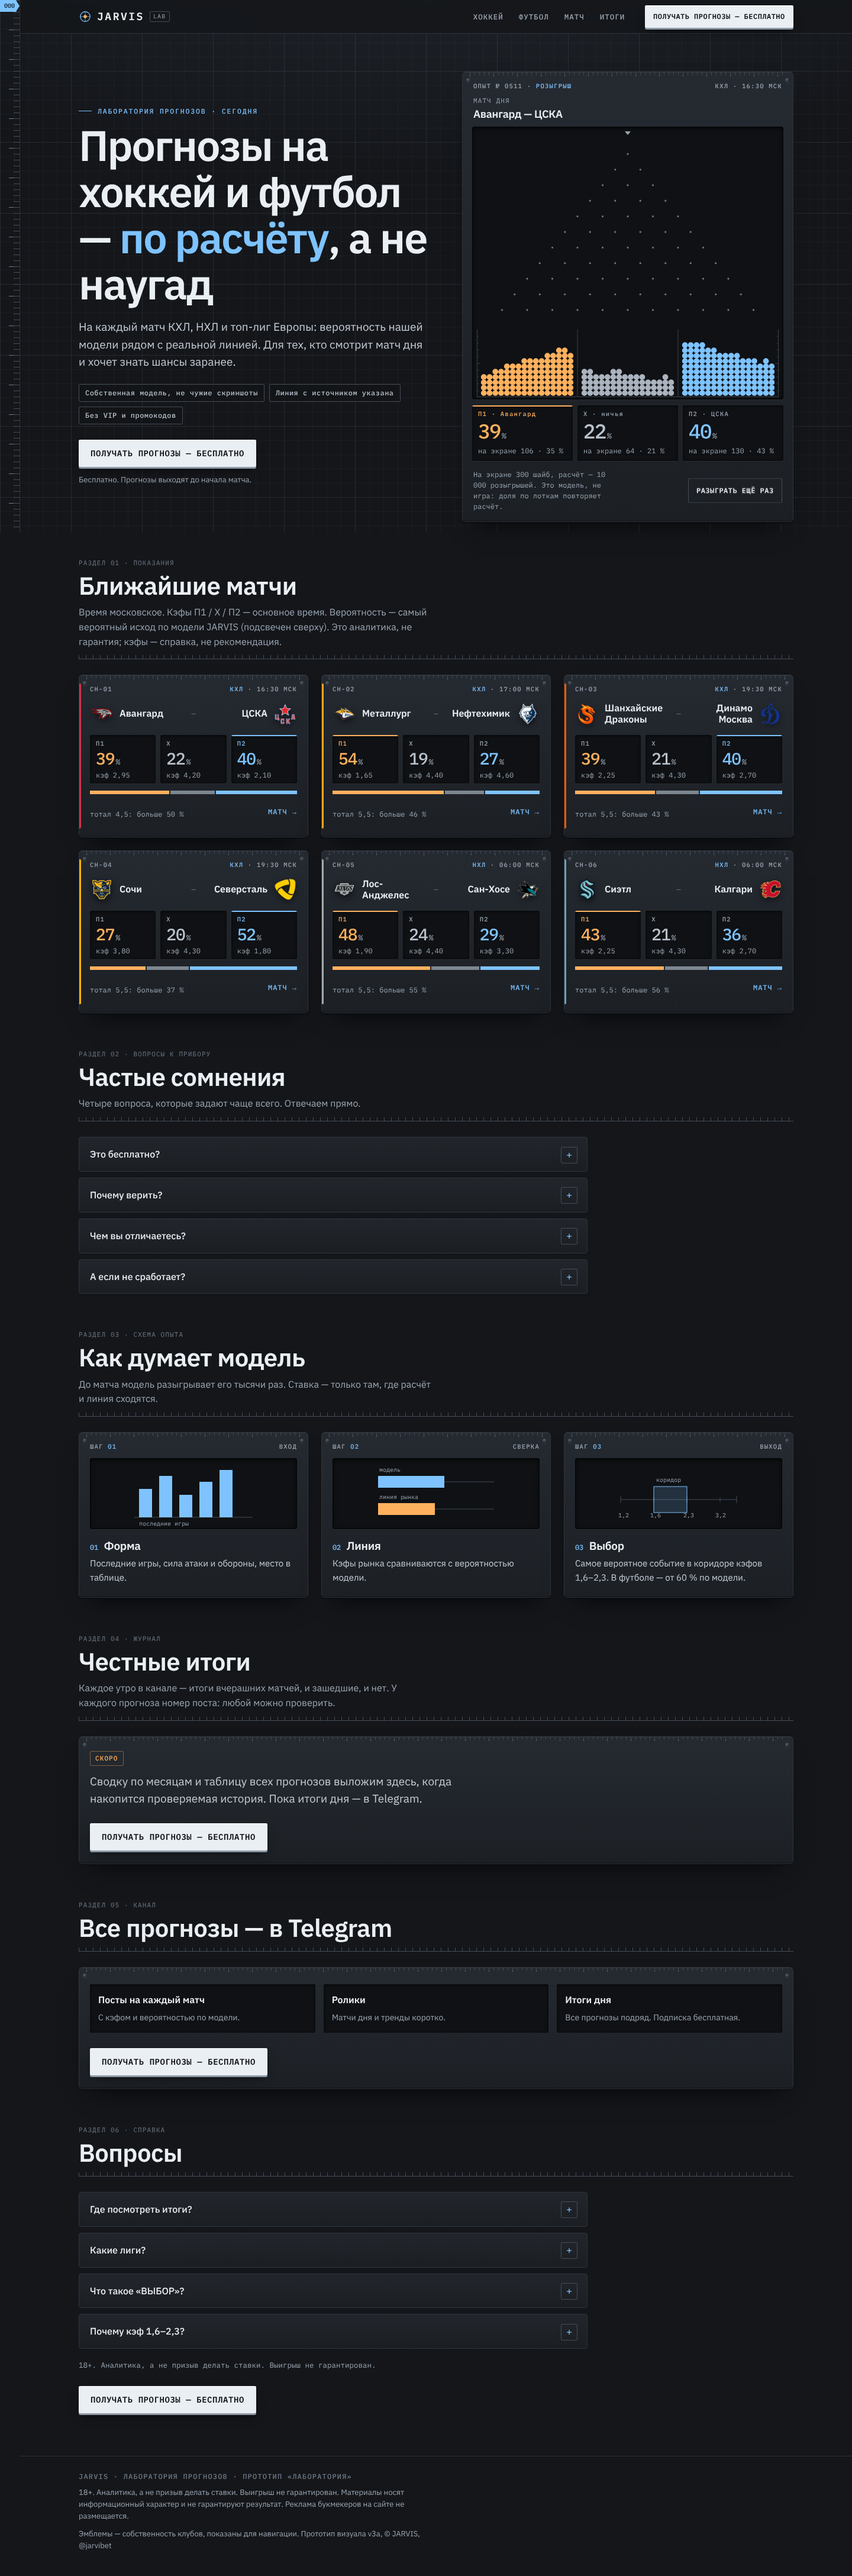
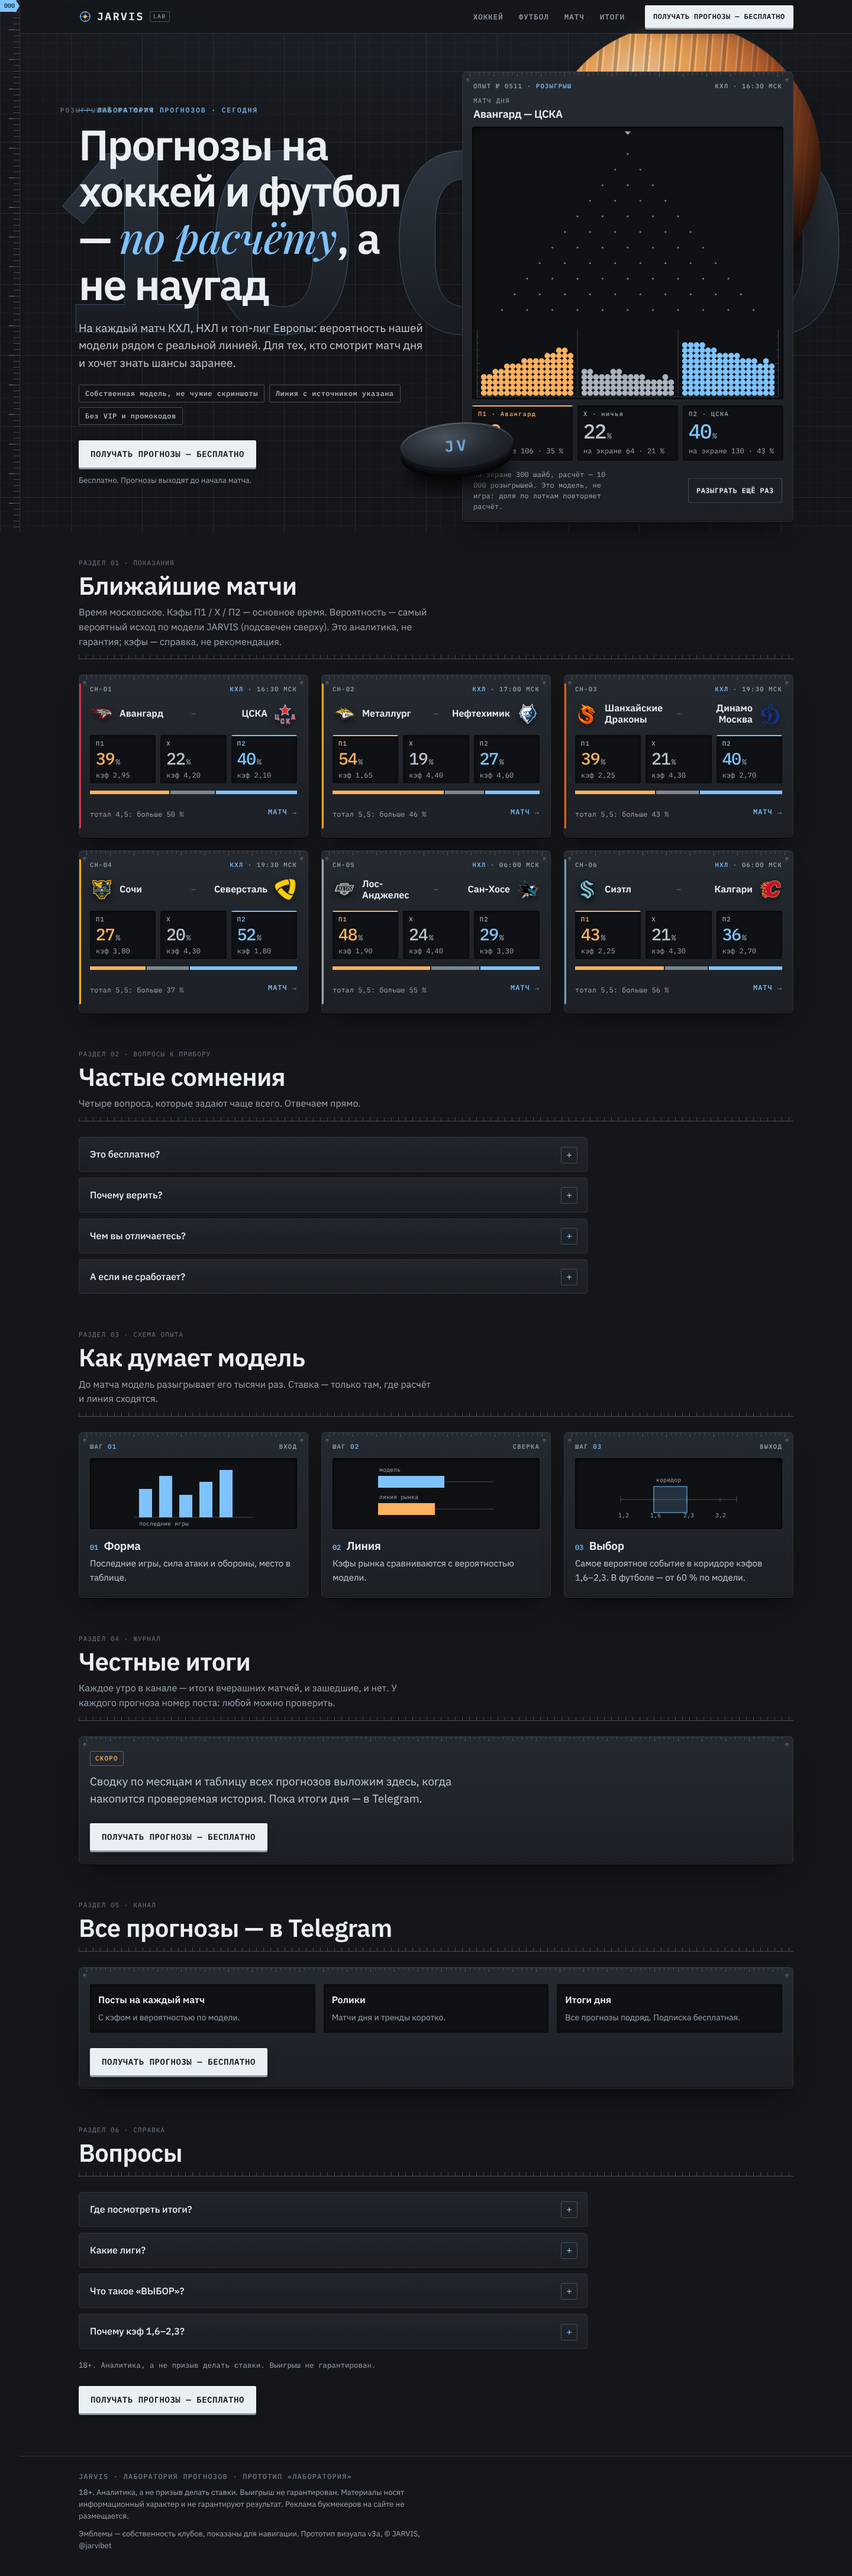
lab: слой глубины (гигантская цифра, шар с рифлёным стеклом, шайба), без горизонтальной прокрутки
Claude-Session: https://claude.ai/code/session_018beMsGW2KNWUfPTL8TDXYR

diff --git a/team/site/v3a/proto/lab/lab.css b/team/site/v3a/proto/lab/lab.css
@@ -364,3 +364,16 @@ footer .f1{font:500 12px var(--mono);letter-spacing:.1em;color:var(--dim);text-t
 .mh .cutl{right:22%;bottom:-6px}.mh .cutr{right:2%;bottom:-18px;animation-delay:-3s}
 @media(max-width:640px){.mh .cutl{right:30%;bottom:-24px}.mh .cutr{right:0}.mh h1{max-width:60%}}
 @media(prefers-reduced-motion:reduce){.orb,.puck3d,.mh .cutl,.mh .cutr{animation:none!important}}
+/* правка глубины после снимков */
+.hero .giant{left:-2vw;top:14%;bottom:auto;font-size:clamp(150px,30vw,470px);-webkit-text-stroke:1px rgba(126,195,255,.30);background:linear-gradient(180deg,#2f3742 0,#1a1e24 90%);-webkit-background-clip:text;background-clip:text}
+.hero .giant small{left:1%;top:-14%;font-size:11px}
+.hero .orb{right:-3vw;top:-12%;width:clamp(200px,34vw,470px)}
+.hero .puck3d{left:calc(50% - 60px);bottom:90px;top:auto}
+@media(max-width:959px){
+ .hero .giant{top:auto;bottom:18%;font-size:34vw}
+ .hero .orb{right:-30vw;top:54%;width:78vw;opacity:.85}
+ .hero .puck3d{left:auto;right:5%;bottom:auto;top:566px}
+}
+html,body{overflow-x:clip}.hero{overflow-x:clip;overflow-y:visible}
+.hero .giant small{display:none}
+@media(min-width:960px){.hero .puck3d{left:calc(50% - 130px);bottom:34px}}
